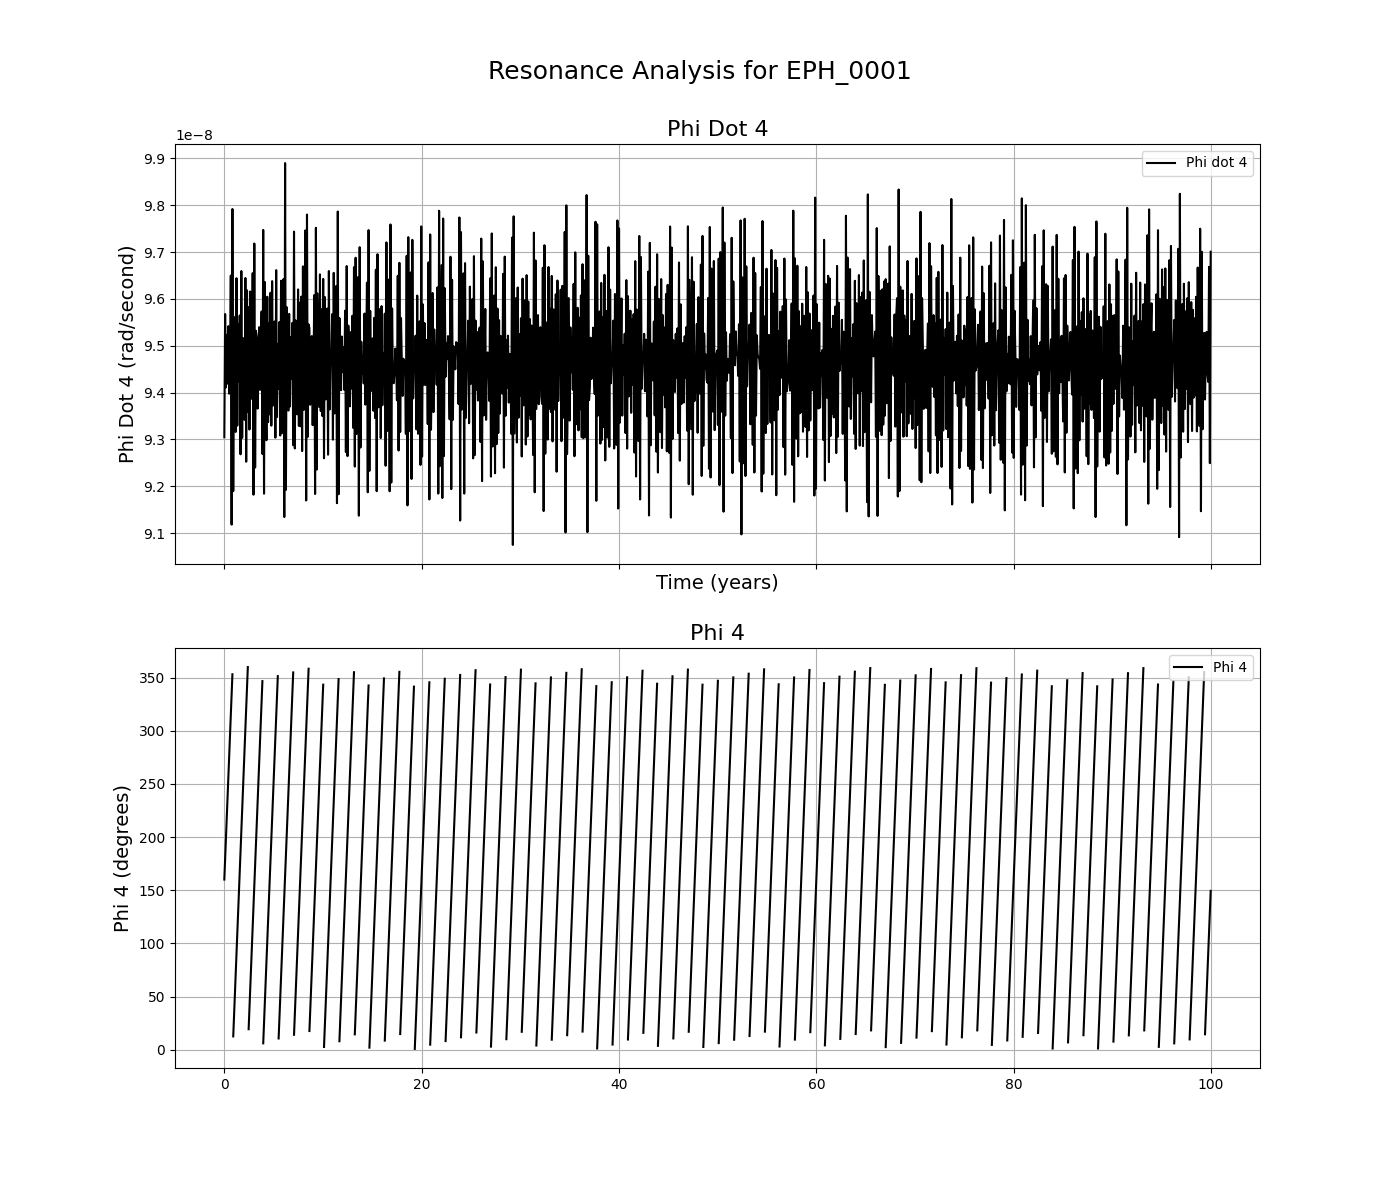
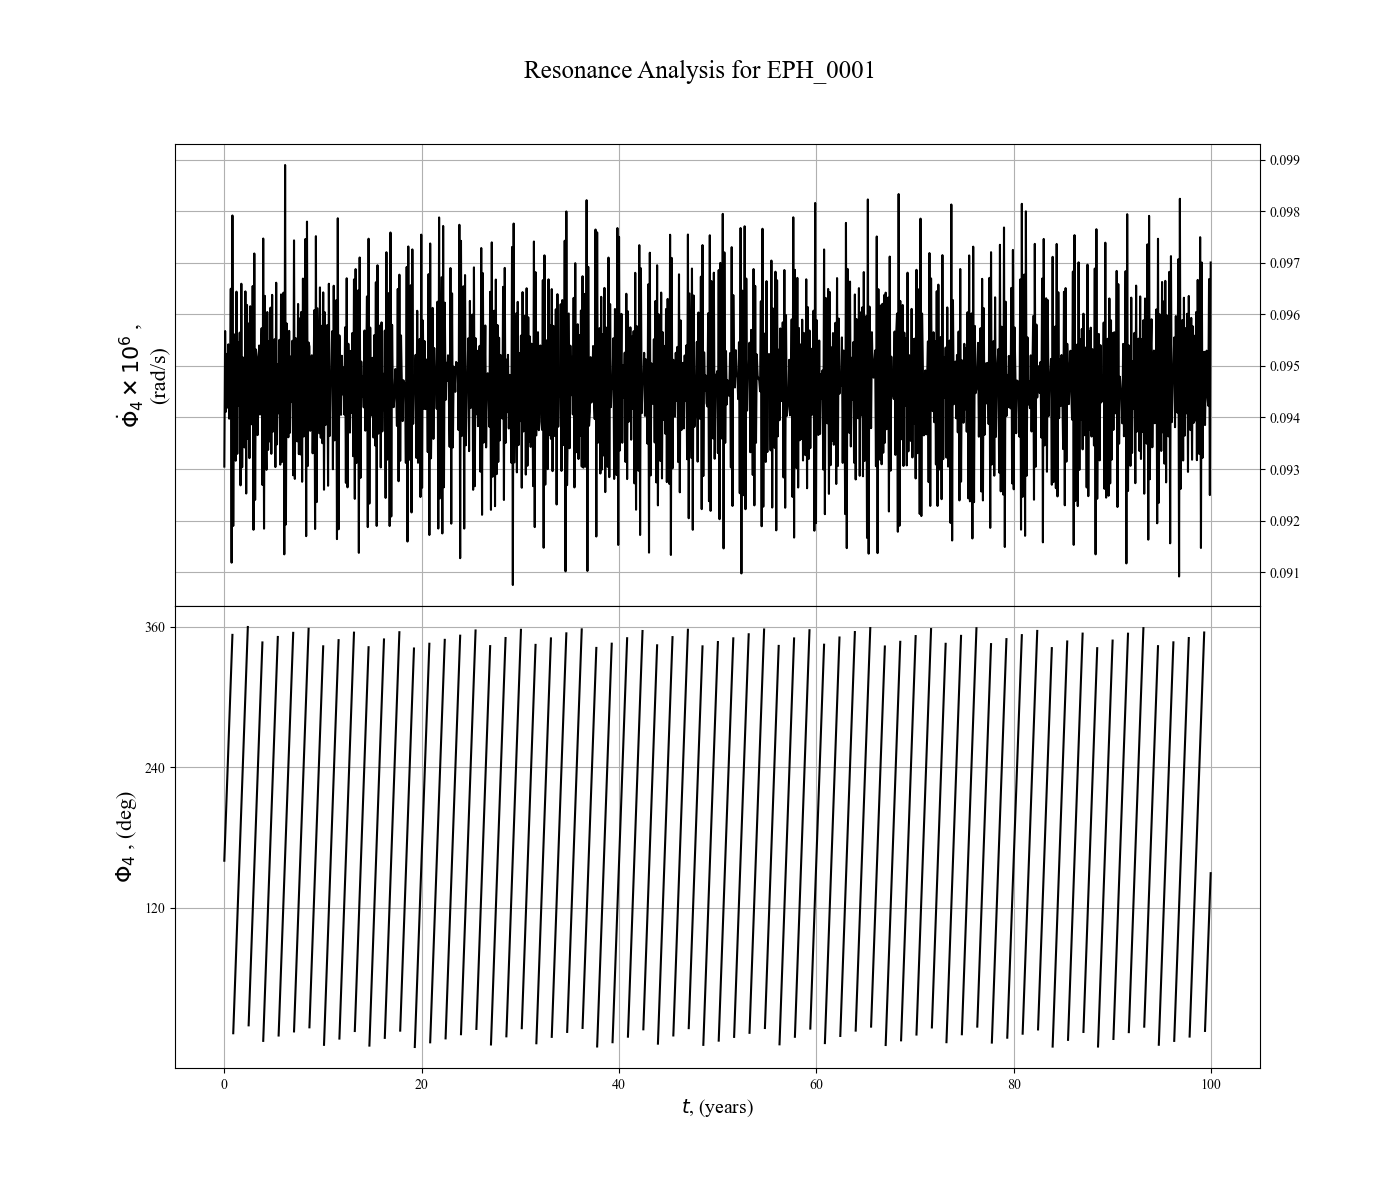
Fix Graph

diff --git a/grapher.py b/grapher.py
@@ -53,18 +53,21 @@ def process_graph(subdirectory, base_path='data'):
         gaps = np.abs(np.diff(y)) > 100
         segments = np.split(np.arange(len(y)), np.where(gaps)[0] + 1)
 
+        plt.rcParams['font.family'] = 'Times New Roman'
+
         # Create a figure with subplots for stacked visualization
-        fig, axes = plt.subplots(2, 1, figsize=(14, 12), sharex=True)
+        fig, axes = plt.subplots(2, 1, figsize=(14, 12), sharex=True, gridspec_kw={'hspace': 0})
         fig.suptitle(f'Resonance Analysis for {subdirectory}', fontsize=18, y=0.95)
         
         for segment in segments:
-            axes[0].plot(x[segment], y[segment], color='black', label=f"Phi dot {i}" if segment[0] == 0 else "")
+            axes[0].plot(x[segment], y[segment]  * 1E6, color='black', label=rf"$\dot{{\phi}}_{i}$" if segment[0] == 0 else "")
 
         axes[0].set_xlabel('Time (years)', fontsize=14)
-        axes[0].set_ylabel(f'Phi Dot {i} (rad/second)', fontsize=14)
-        axes[0].set_title(f'Phi Dot {i}', fontsize=16)
+        axes[0].set_ylabel(rf'$\dot{{\Phi}}_{i}\, \text{{✕}}\, 10^{{6}}$' ' ,\n(rad/s)', fontsize=16)
+        # axes[0].set_title(rf'$\dot{{\Phi}}_{i}$', fontsize=16)
+        axes[0].yaxis.tick_right()
         axes[0].grid(True)
-        axes[0].legend()
+        # axes[0].legend(fontsize=14)
 
         # Critical arguments
         y = np.array(df[f'Phi_{i}_deg'])
@@ -75,12 +78,14 @@ def process_graph(subdirectory, base_path='data'):
 
         # Plot Phi values on the first subplot
         for segment in segments:
-            axes[1].plot(x[segment], y[segment], color='black', label=f'Phi {i}' if segment[0] == 0 else "")
+            axes[1].plot(x[segment], y[segment], color='black', label=rf'$\phi_{i}$' if segment[0] == 0 else "")
 
-        axes[1].set_ylabel(f'Phi {i} (degrees)', fontsize=14)
-        axes[1].set_title(f'Phi {i}', fontsize=16)
+        axes[1].set_yticks([120, 240, 360])
+        axes[1].set_ylabel(rf'$\Phi_{i}$' ' , (deg)', fontsize=16)
+        axes[1].set_xlabel(r'$t$, (years)', fontsize=14)
+        # axes[1].set_title(rf'$\Phi_{i}$', fontsize=16)
         axes[1].grid(True)
-        axes[1].legend()
+        # axes[1].legend(fontsize=14)
 
         # Save the combined plot
         save_path = os.path.join(save_dir, f"{subdirectory}_resonance_{i}.png")
@@ -88,4 +93,3 @@ def process_graph(subdirectory, base_path='data'):
         plt.close()
 
         print(f"Saved stacked plot for Phi and Phi Dot in {save_path}.")
-
